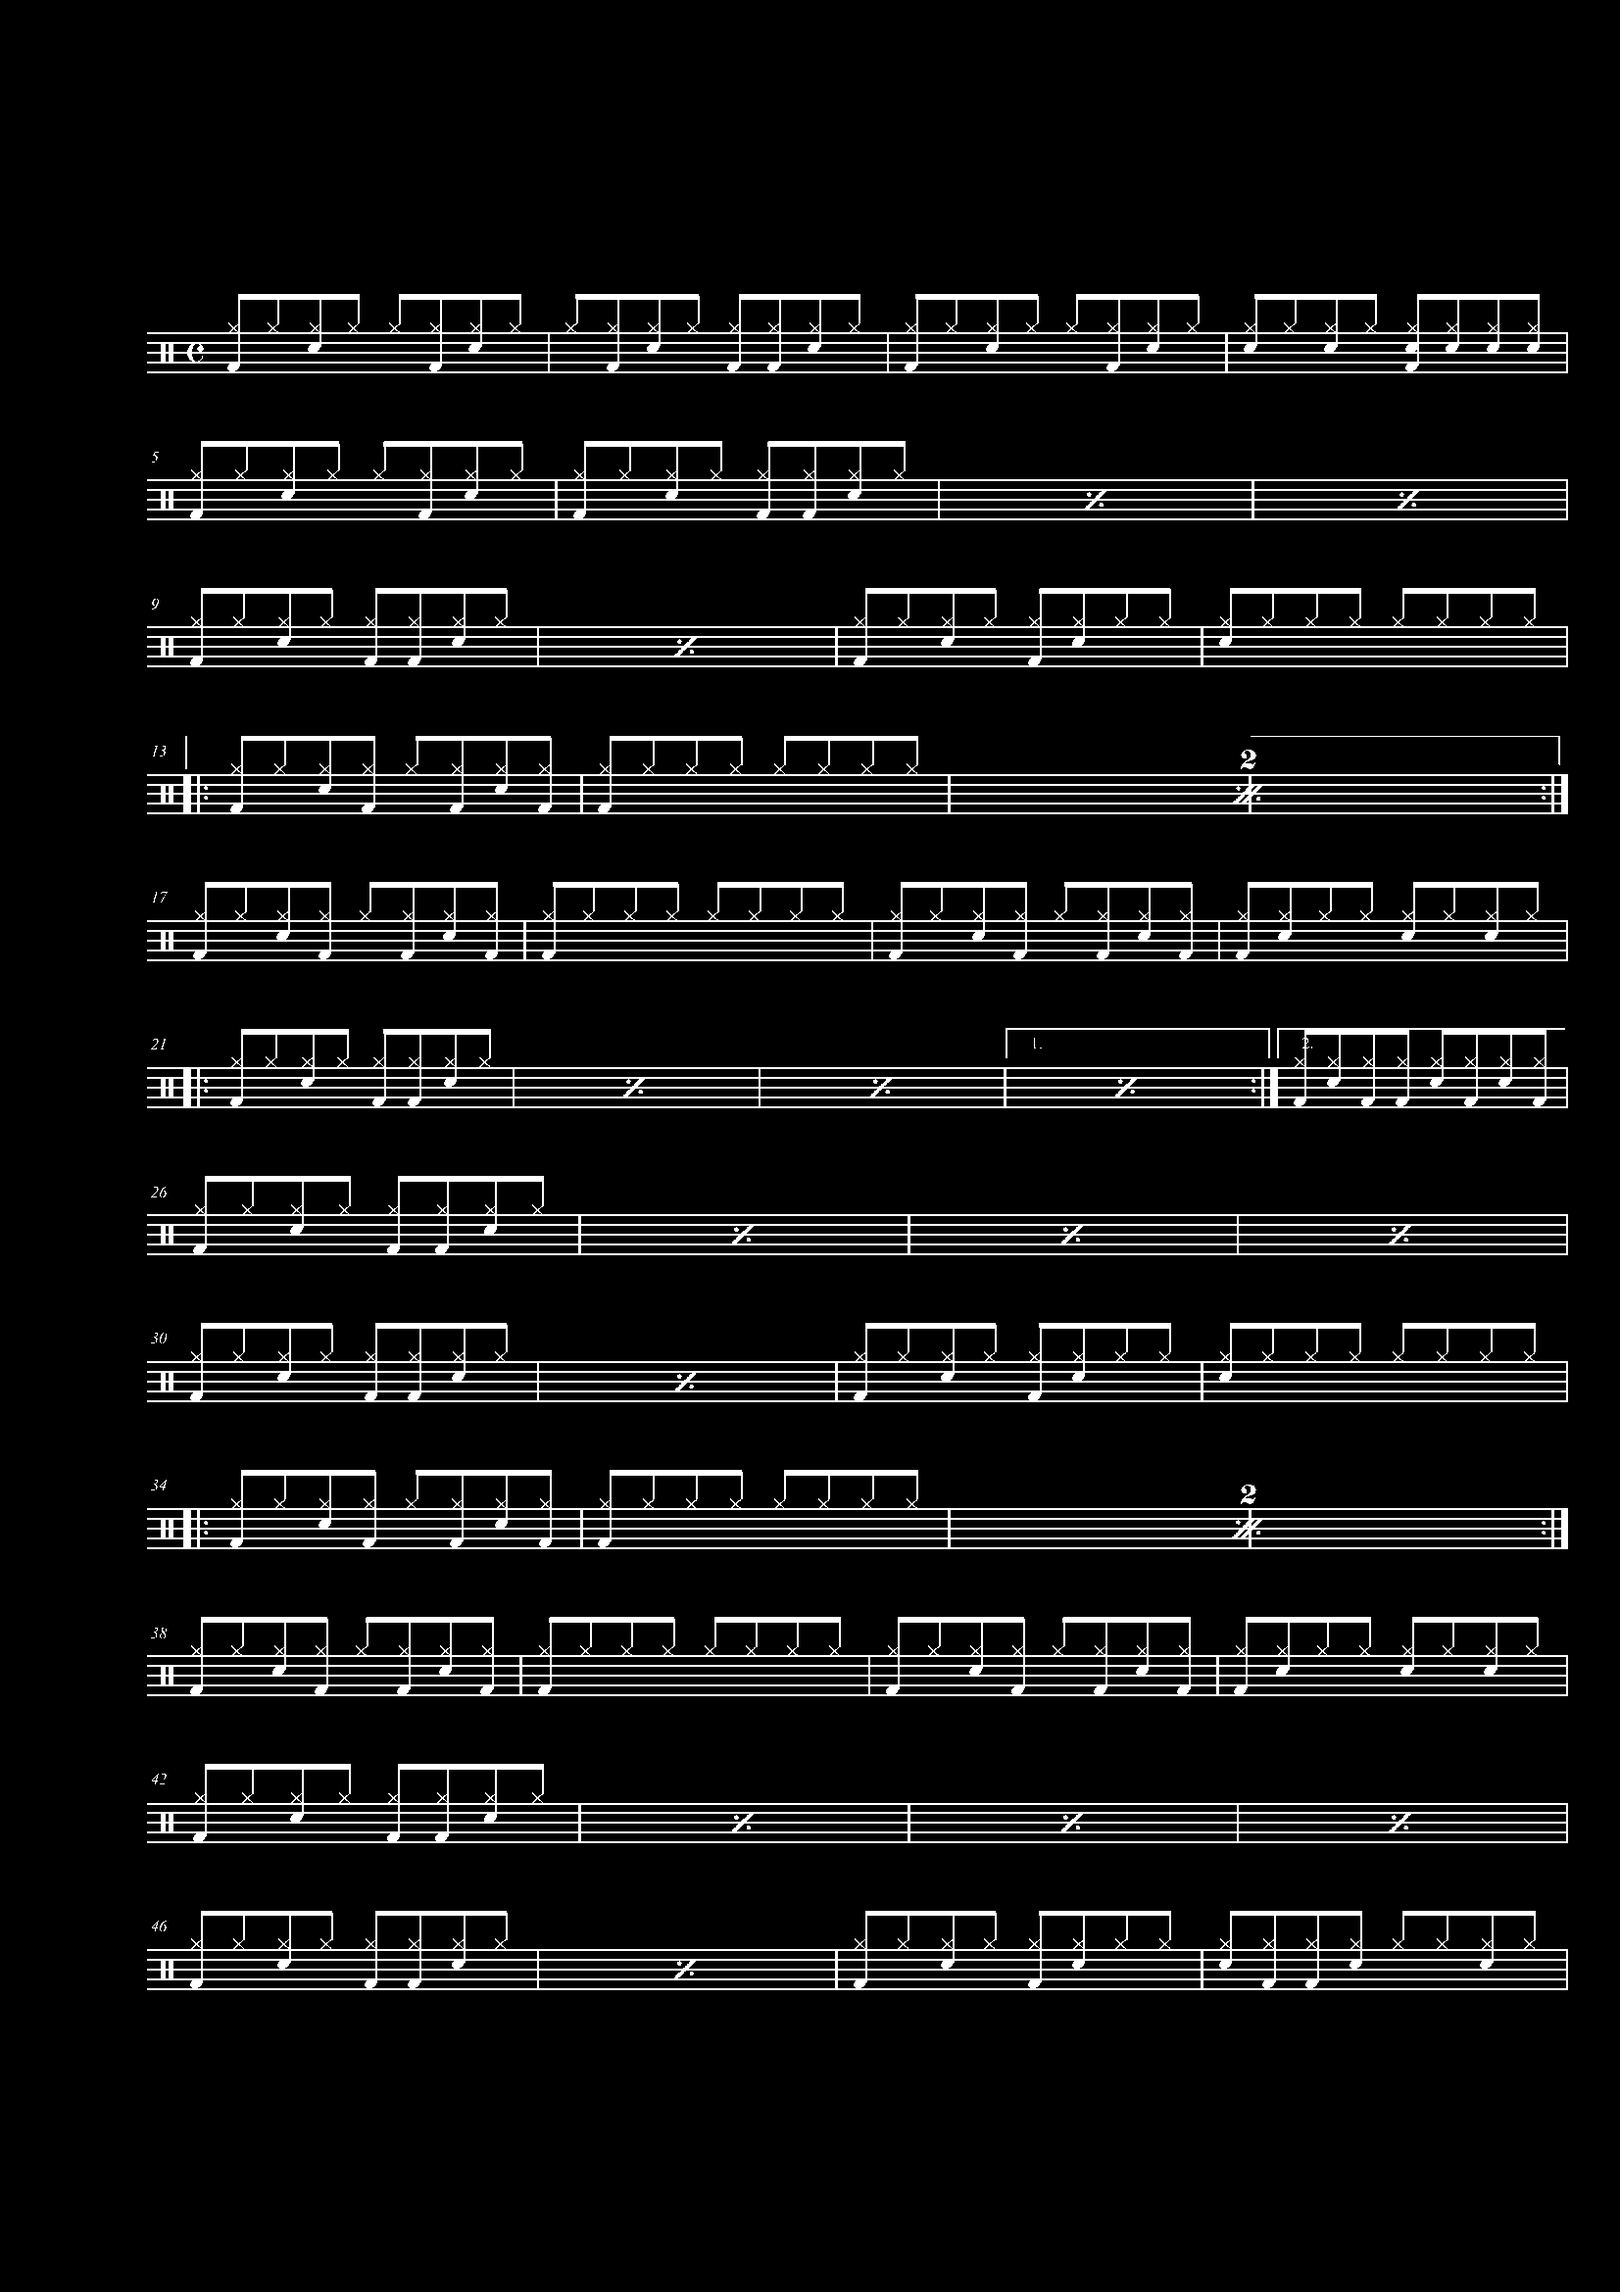
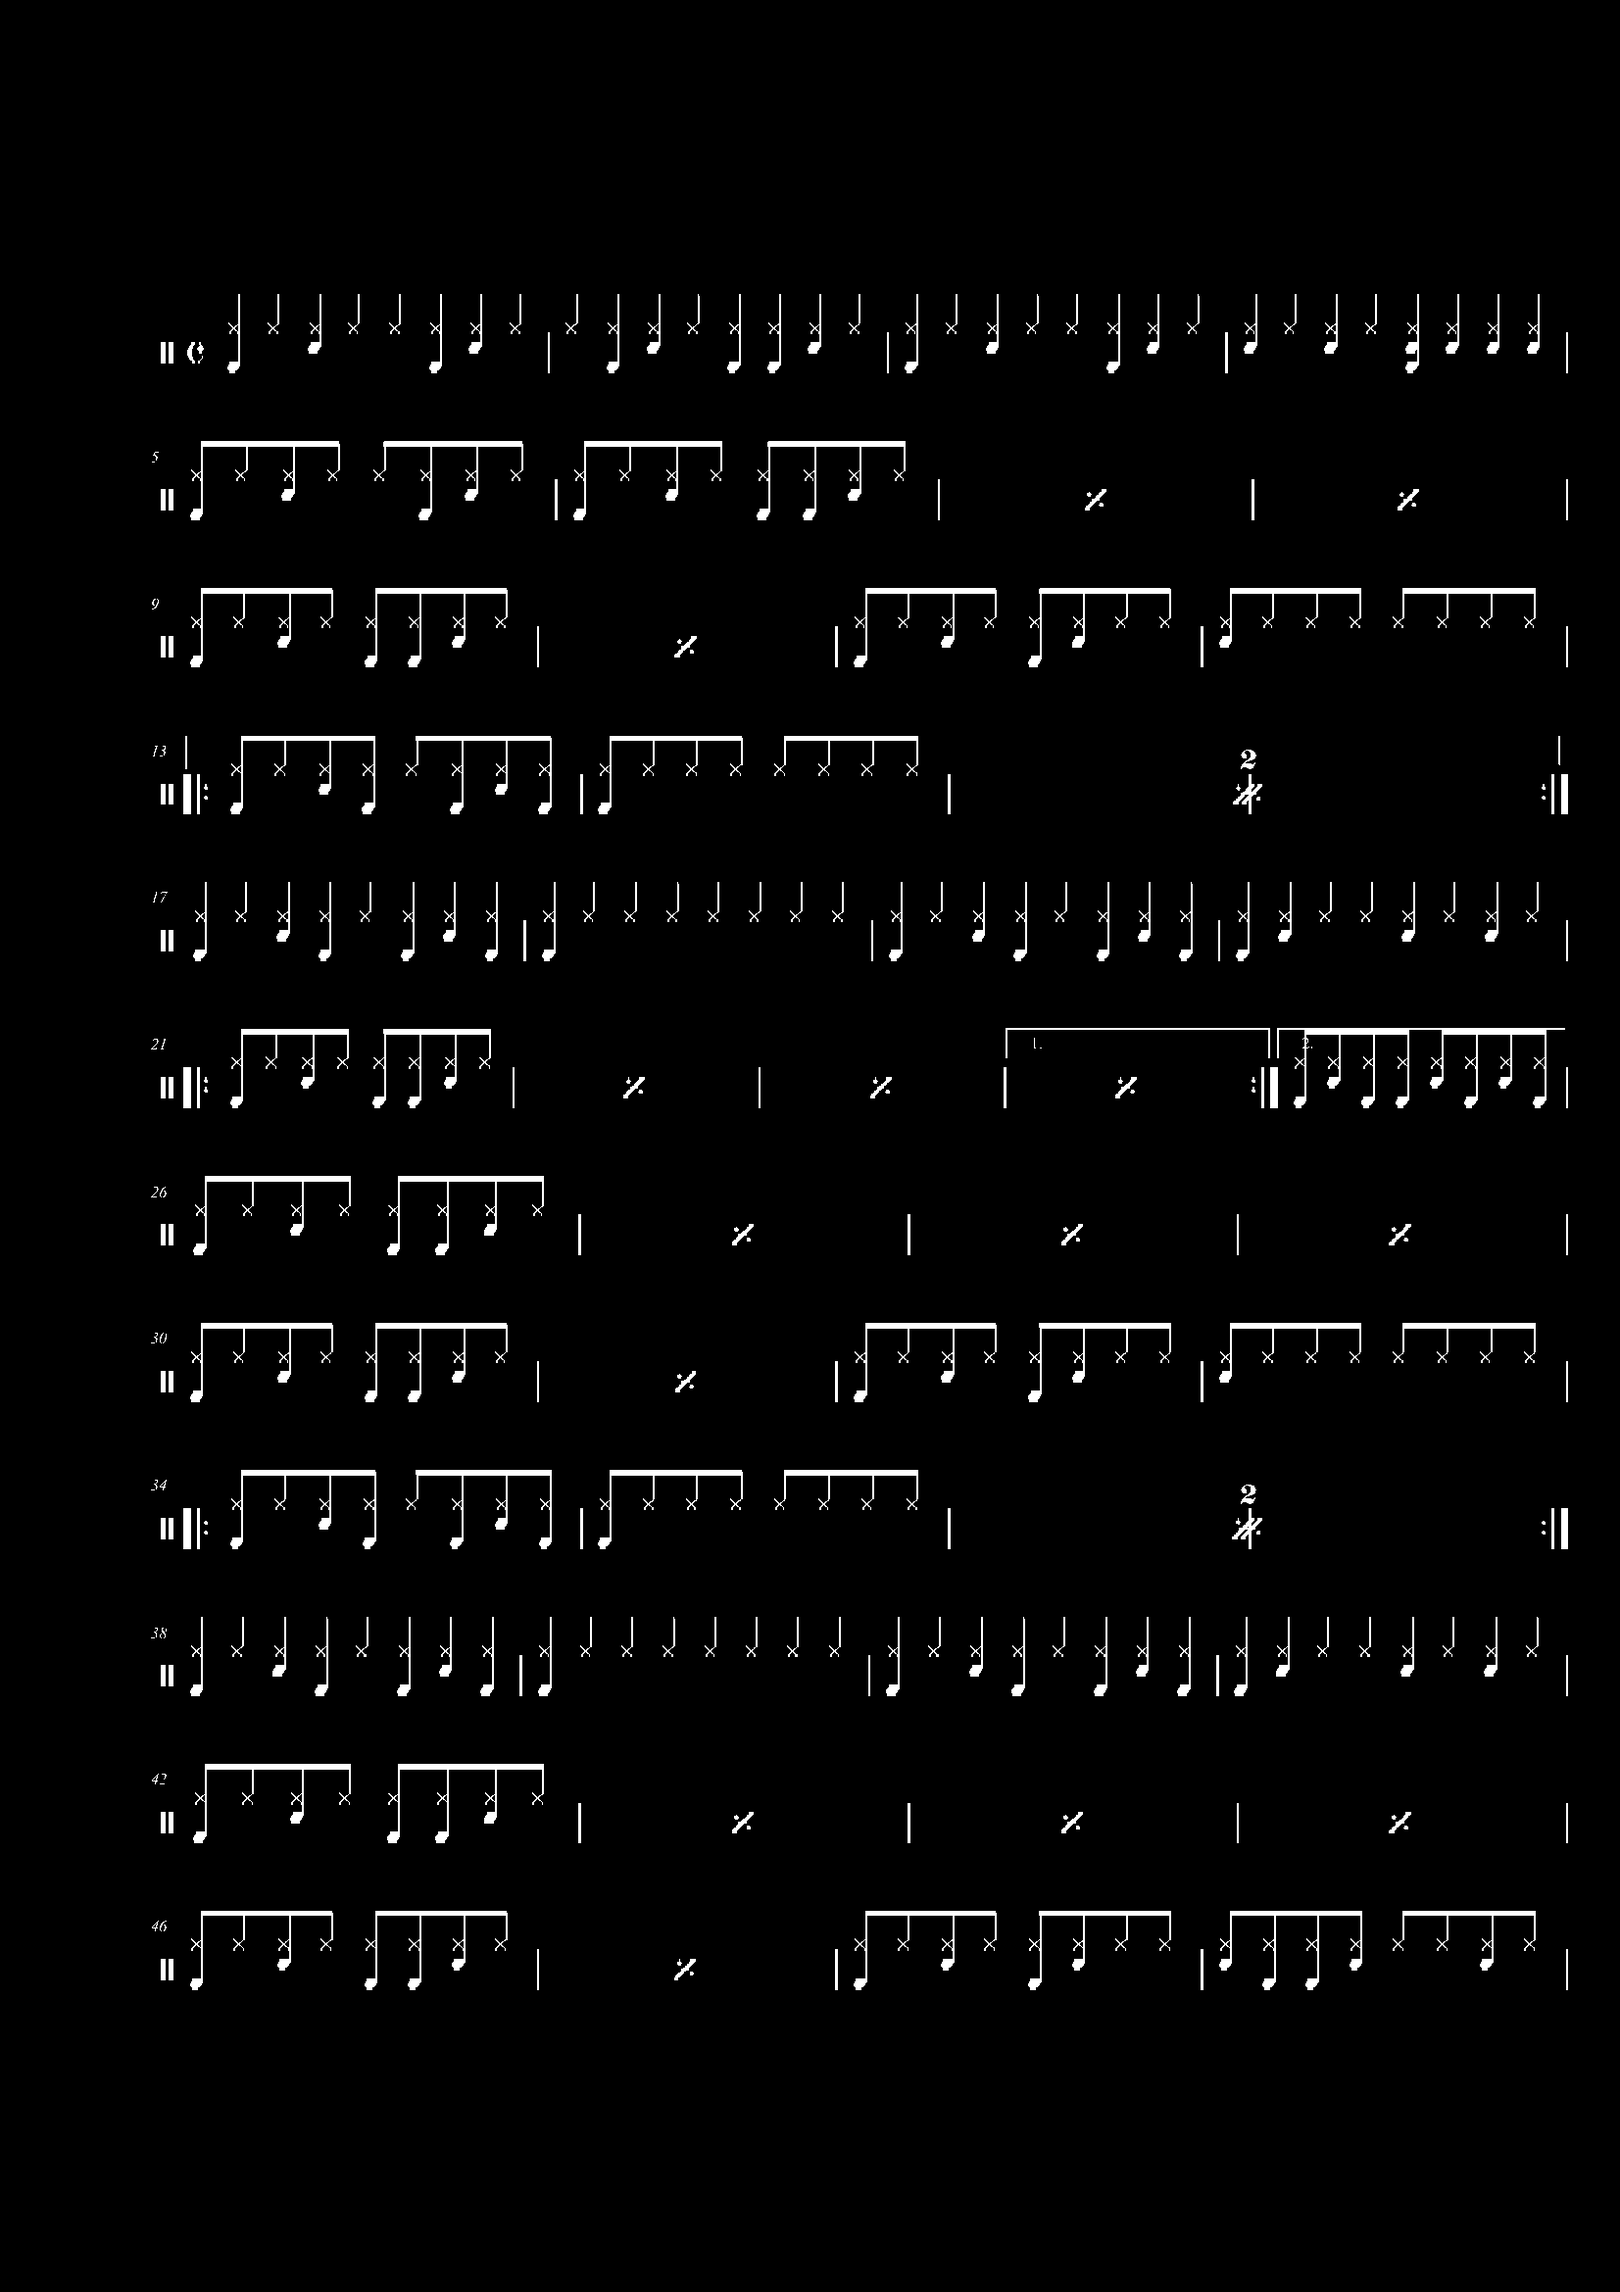
오선 제거

diff --git a/02_MusicSheet/pdf2image/module.py b/02_MusicSheet/pdf2image/module.py
@@ -18,3 +18,27 @@ def rmNoise(image):
     masked_image = cv2.bitwise_and(image, mask)  # 보표 영역 추출
 
     return masked_image
+
+def rmStaves(image):
+    height, width = image.shape
+    staves = []  # 오선의 좌표들이 저장될 리스트
+
+    for row in range(height):
+        pixels = 0
+        for col in range(width):
+            pixels += (image[row][col] == 255)  # 한 행에 존재하는 흰색 픽셀의 개수를 셈
+        if pixels >= width * 0.5:  # 이미지 넓이의 50% 이상이라면
+            if len(staves) == 0 or abs(staves[-1][0] + staves[-1][1] - row) > 1:  # 첫 오선이거나 이전에 검출된 오선과 다른 오선
+                staves.append([row, 0])  # 오선 추가 [오선의 y 좌표][오선 높이]
+            else:  # 이전에 검출된 오선과 같은 오선
+                staves[-1][1] += 1  # 높이 업데이트
+
+    for staff in range(len(staves)):
+        top_pixel = staves[staff][0]  # 오선의 최상단 y 좌표
+        bot_pixel = staves[staff][0] + staves[staff][1]  # 오선의 최하단 y 좌표 (오선의 최상단 y 좌표 + 오선 높이)
+        for col in range(width):
+            if image[top_pixel - 1][col] == 0 and image[bot_pixel + 1][col] == 0:  # 오선 위, 아래로 픽셀이 있는지 탐색
+                for row in range(top_pixel, bot_pixel + 1):
+                    image[row][col] = 0  # 오선을 지움
+
+    return image, [x[0] for x in staves]

diff --git a/02_MusicSheet/pdf2image/app.py b/02_MusicSheet/pdf2image/app.py
@@ -18,7 +18,10 @@ for i, page in enumerate(pages):
 
     masked_image = module.rmNoise(image)
 
-    cv2.imshow('image', masked_image)
-    cv2.imwrite("./source/" + "mask" + str(i) + ".png", masked_image)
+    noStaves_img, staves = module.rmStaves(masked_image)
+
+    cv2.imshow('image', noStaves_img)
+    cv2.imwrite("./source/" + "mask" + str(i) + ".png", noStaves_img)
+    print("exit")
 
 
